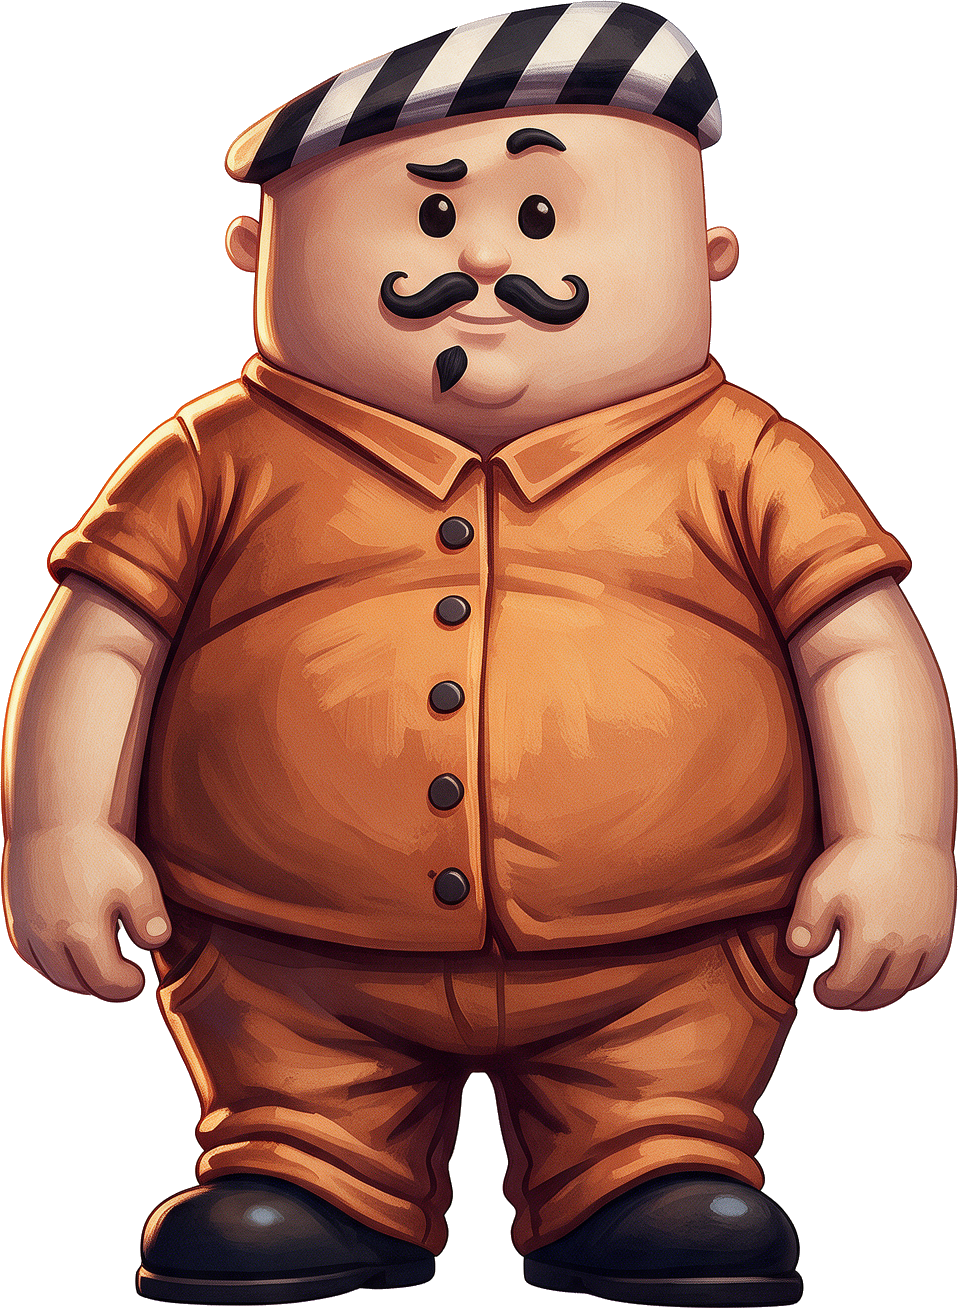
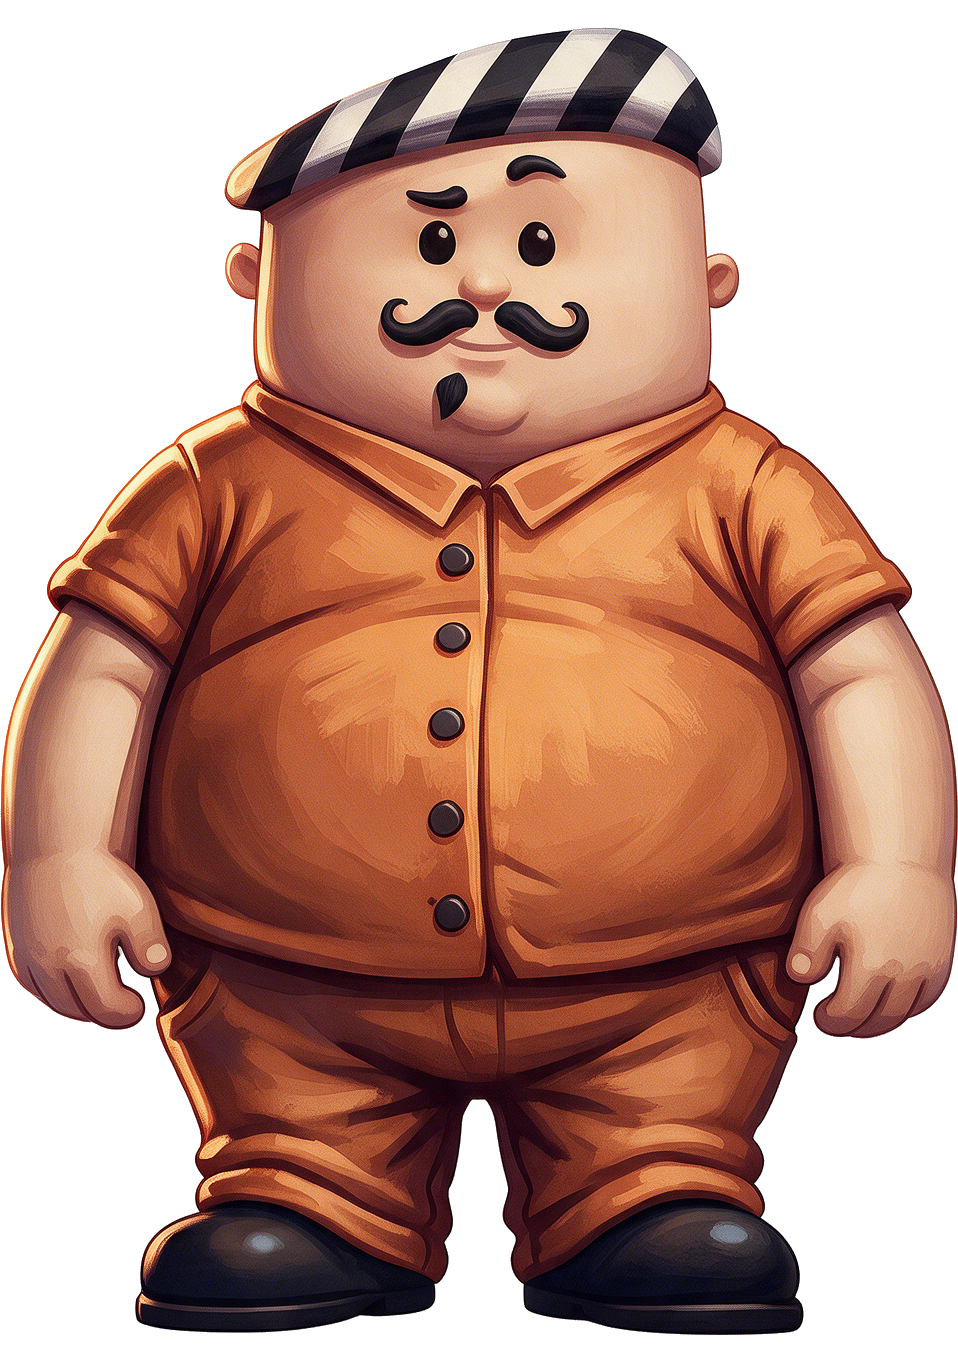
Keep the home crew at their true relative scale
Re-cut the three cutouts with an identical vertical crop and render them at
one shared height, so their real proportions hold (Tony slightly taller than
Al) instead of being forced to different heights.

diff --git a/src/app/page.tsx b/src/app/page.tsx
@@ -273,17 +273,17 @@ export default function HomePage() {
               <Image
                 src={tonyCutout}
                 alt="Tony Oregano"
-                className="h-[150px] w-auto drop-shadow-[0_8px_16px_rgba(0,0,0,0.25)] sm:h-[180px]"
+                className="h-[190px] w-auto drop-shadow-[0_8px_16px_rgba(0,0,0,0.25)] sm:h-[230px]"
               />
               <Image
                 src={alCutout}
                 alt="Al Cologne"
-                className="h-[170px] w-auto drop-shadow-[0_8px_16px_rgba(0,0,0,0.25)] sm:h-[205px]"
+                className="h-[190px] w-auto drop-shadow-[0_8px_16px_rgba(0,0,0,0.25)] sm:h-[230px]"
               />
               <Image
                 src={vonDittoCutout}
                 alt="Von Ditto Funnybone"
-                className="h-[185px] w-auto drop-shadow-[0_8px_16px_rgba(0,0,0,0.25)] sm:h-[220px]"
+                className="h-[190px] w-auto drop-shadow-[0_8px_16px_rgba(0,0,0,0.25)] sm:h-[230px]"
               />
             </div>
           </article>
